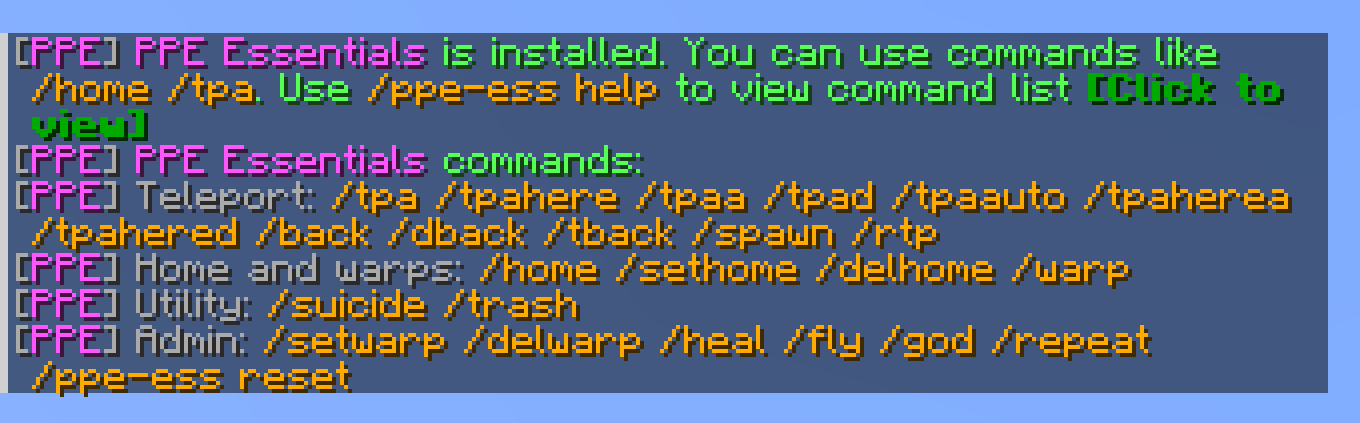
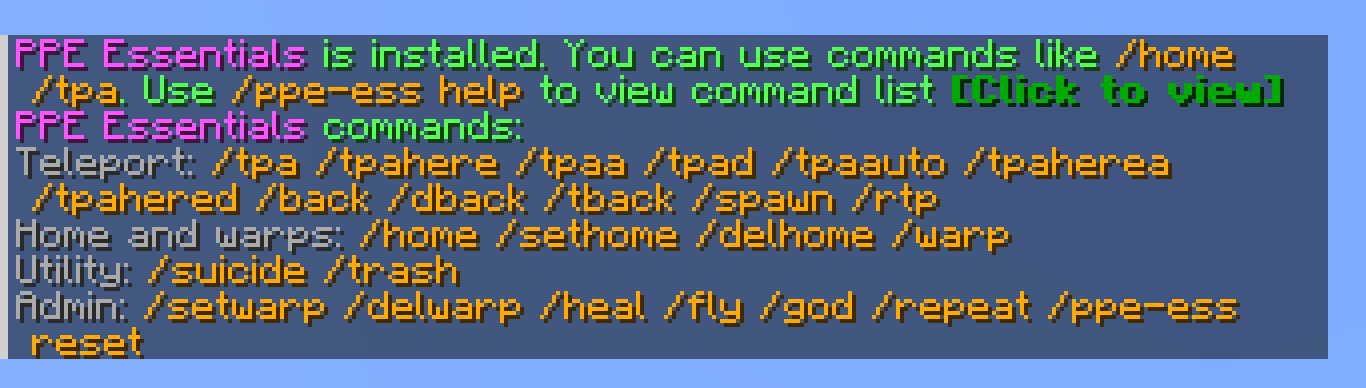
Update README.md and cover

diff --git a/README.md b/README.md
@@ -67,7 +67,7 @@ PPE Essentials is a lightweight mod that adds useful commands (like /tpa /repeat
 | `/trash` | Open a temporary trash inventory that clears on close. |
 | `/suicide` | Kill yourself. |
 | `/heal [player]` | Heal yourself or another player. |
-| `/fly [player]` | Toggle persistent flight for yourself or another player. Flight remains available after joining, respawning, or changing game mode. |
+| `/fly [player]` | Toggle persistent flight for yourself or another player. |
 | `/god [player]` | Toggle god mode for yourself or another player. |
 | `/repeat <times> [command]` | Repeat your last command or a specified command. |
 | `/ppe-ess help` | Show the command list. Disabled or unavailable commands are shown in red. |